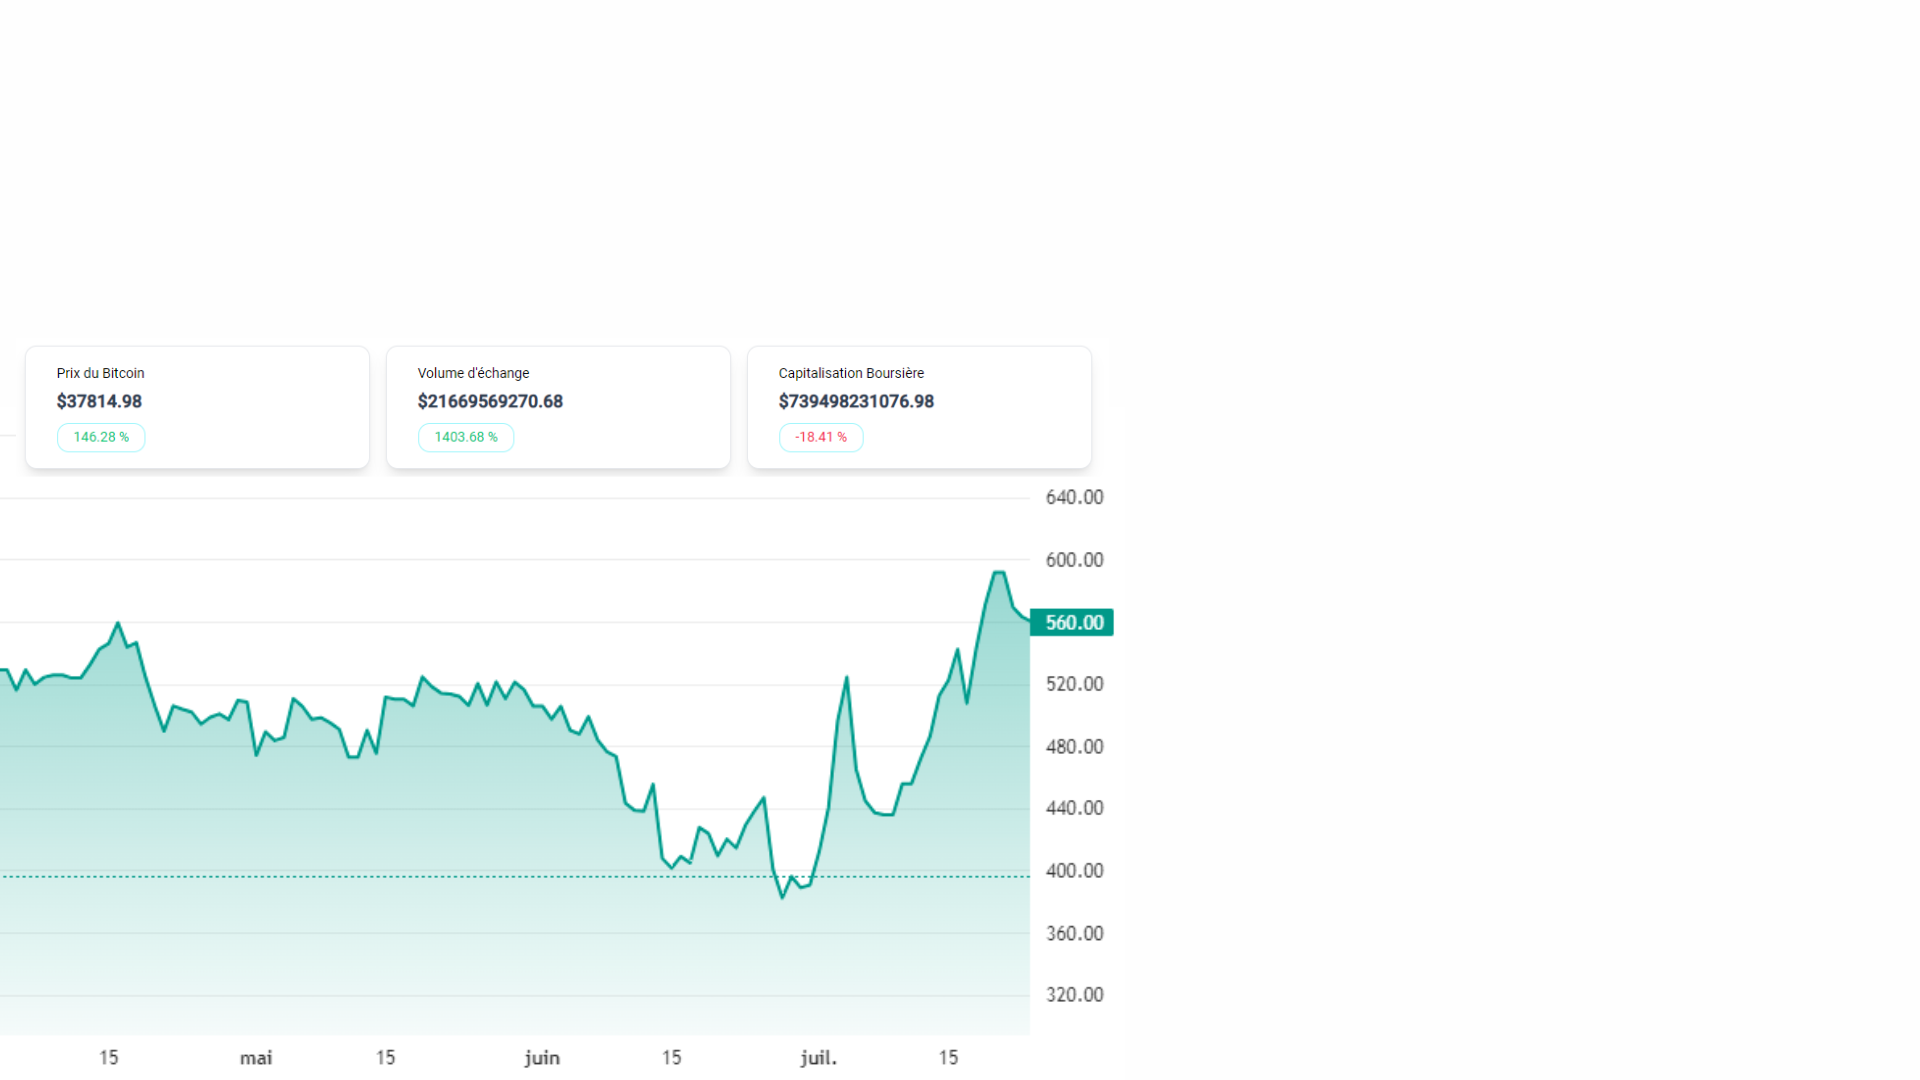
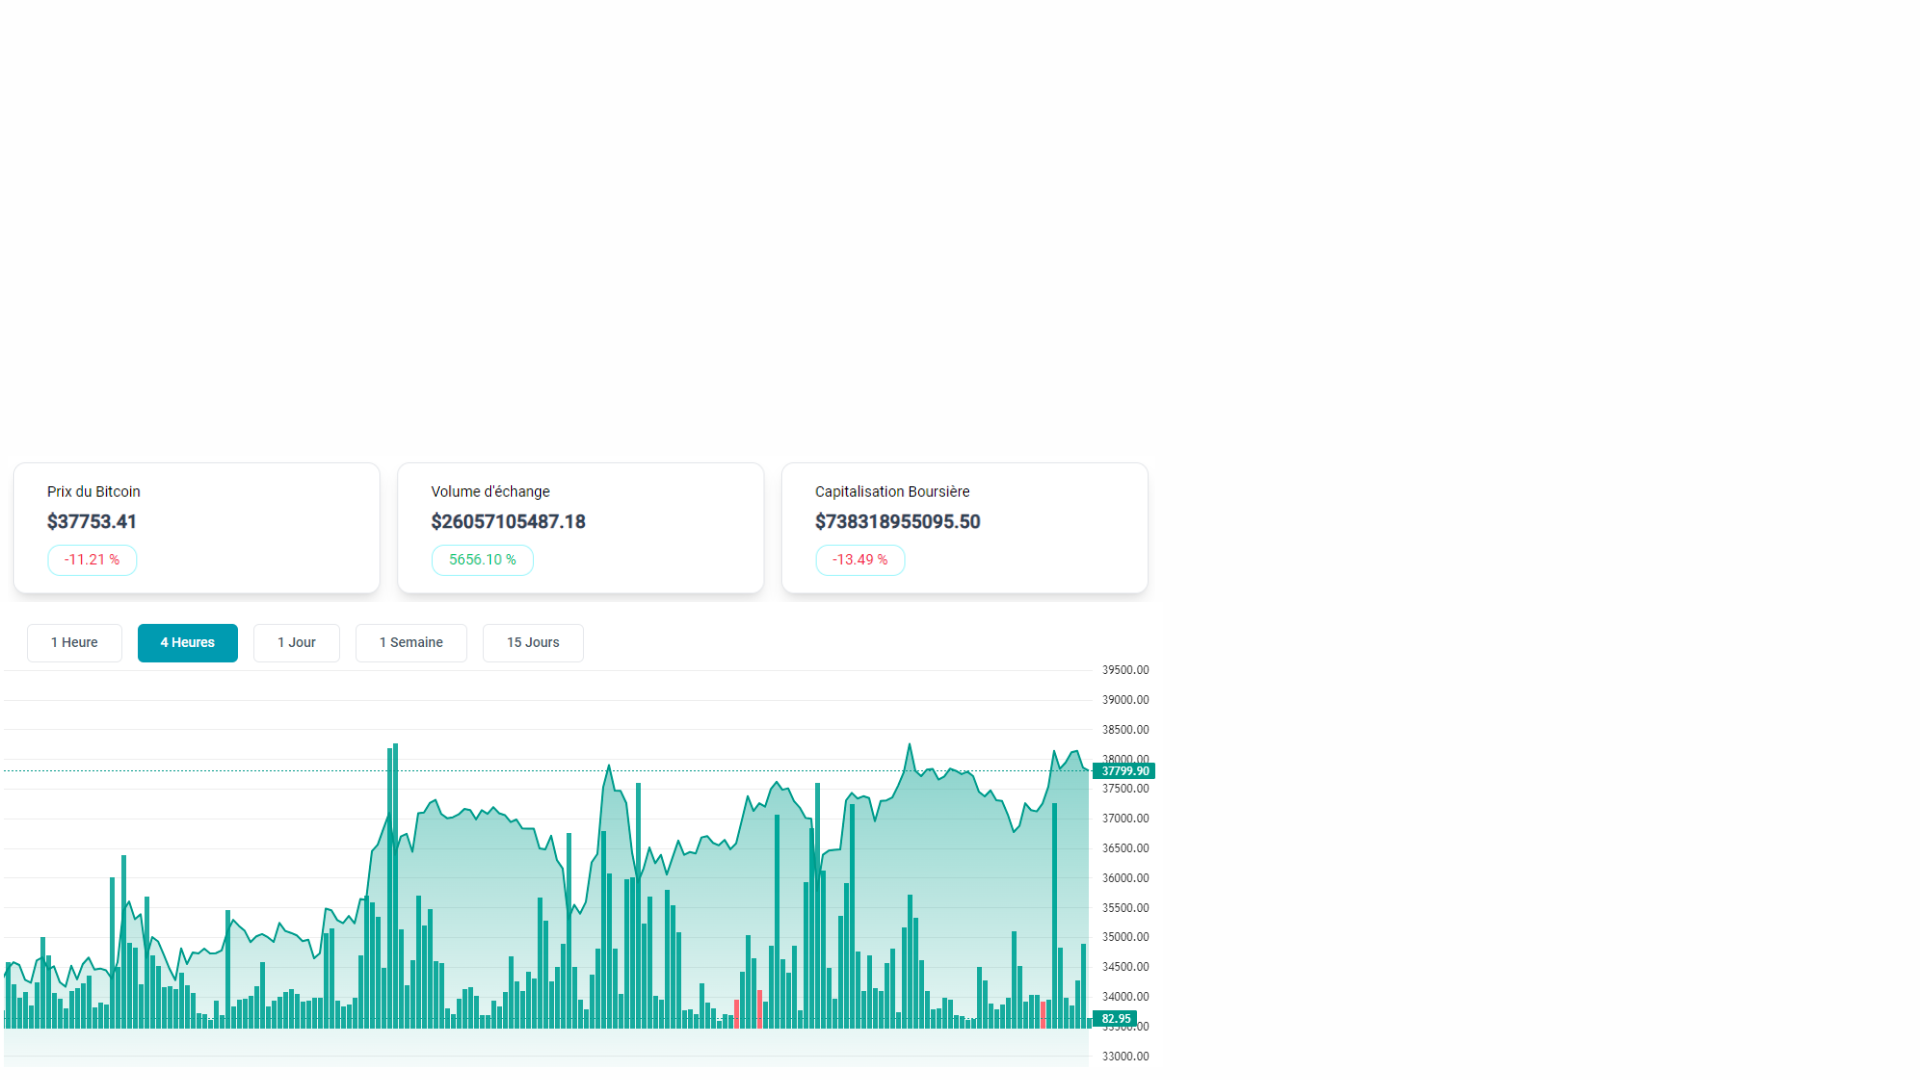
Add the posibility to switch time intervall in the overview

diff --git a/frontend/modules/bitcoin-overview/src/lib/bitcoin-overview/bit-chart/bit-chart.component.ts b/frontend/modules/bitcoin-overview/src/lib/bitcoin-overview/bit-chart/bit-chart.component.ts
@@ -2,7 +2,7 @@ import { AfterViewInit, Component, ElementRef, ViewChild } from '@angular/core';
 import { CommonModule } from '@angular/common';
 import { IChartApi, createChart } from 'lightweight-charts';
 import { SharedService } from '@bit-info-dash/shared';
-import moment from 'moment';
+import { KRANKEN_SYMBOLS, KrakenDataService, KrakenSymbol } from '../services/kraken-data.service';
 
 @Component({
   selector: 'bit-info-dash-bit-chart',
@@ -11,19 +11,33 @@ import moment from 'moment';
   templateUrl: './bit-chart.component.html',
 })
 export class BitChartComponent implements AfterViewInit {
-  constructor(private sharedService: SharedService) { }
-  ngAfterViewInit(): void { 
+  constructor(private sharedService: SharedService, private krakenService: KrakenDataService) { }
+
+  ngAfterViewInit(): void {
     this.myChart();
   }
   @ViewChild('chartContainer') chartContainer!: ElementRef;
-  chart!: IChartApi;  
+  chart!: IChartApi;
 
-  myChart(): void {  
-    var container = this.chartContainer.nativeElement; 
+  symbols: KrakenSymbol[] = KRANKEN_SYMBOLS;
+  symbol = this.symbols[0].symbol;
 
-    const chartContainerElement: HTMLElement = this.chartContainer.nativeElement;  
+  changeSymbol(_symbol: any) {
+    this.symbol = _symbol;
+    this.myChart();
+  }
+
+  getClassColor(_symbol: any) {
+    return _symbol === this.symbol ? 'text-white bg-secondary' : 'text-slate-600 border hover:text-primary-100 bg-white';
+  }
+
+  myChart(): void {
+    var container = this.chartContainer.nativeElement;
+
+    const chartContainerElement: HTMLElement = this.chartContainer.nativeElement;
+
     const chartContainerWidth: number = chartContainerElement.offsetWidth;
-
+    chartContainerElement.innerHTML = "";
     var width = chartContainerWidth;
     var height = 450;
 
@@ -38,8 +52,8 @@ export class BitChartComponent implements AfterViewInit {
       timeScale: {
         borderVisible: false,
       },
-      layout: { 
-        background: {color: '#ffffff' },
+      layout: {
+        background: { color: '#ffffff' },
         textColor: '#333',
       },
       grid: {
@@ -66,6 +80,7 @@ export class BitChartComponent implements AfterViewInit {
       lineWidth: 2,
     });
 
+
     var volumeSeries = chart.addHistogramSeries({
       color: '#26a69a',
       priceFormat: {
@@ -74,25 +89,27 @@ export class BitChartComponent implements AfterViewInit {
       priceScaleId: '',
     });
 
-    this.sharedService.getWithToken('/ohlcvt-1-ds', this.sharedService.getToken()).subscribe({
+    this.krakenService.getOHLCData(this.symbol).subscribe({
       next: (data) => {
-        const priceData = data.map((item: any) => ({
-          time: moment(item.timestamp).format("YYYY-MM-DD"),
-          value: item.close * 1000,
-        })); 
+        const processedData = this.krakenService.processKrakenApiResponse(data);
+        const priceData = processedData.map((item: any) => ({
+          // time: moment(item.timestamp).format("YYYY-MM-DD"),
+          time: item.time,
+          value: item.close * 1,
+        }));
 
-        const volumeData = data.map((item: any) => ({
-          time: moment(item.timestamp).format("YYYY-MM-DD"),
-          value: item.volume,
-          color: item.close < item.high ?  'rgba(0, 150, 136, 0.8)' : 'rgba(255,82,82, 0.8)',
-        })); 
+        const volumeData = processedData.map((item: any) => ({
+          time: item.time,
+          value: item.volume * 1,
+          color: item.close * 1 < item.high ? 'rgba(0, 150, 136, 0.8)' : 'rgba(255,82,82, 0.8)',
+        }));
 
         areaSeries.setData(priceData);
-       //volumeSeries.setData(volumeData);
+        volumeSeries.setData(volumeData);
       },
       error: (error) => { console.error('Error fetching OHLCVT data:', error) }
-    }) 
+    })
 
-     
+
   }
 }

diff --git a/frontend/modules/bitcoin-overview/src/lib/bitcoin-overview/bit-chart/bit-chart.component.html b/frontend/modules/bitcoin-overview/src/lib/bitcoin-overview/bit-chart/bit-chart.component.html
@@ -1,31 +1,20 @@
 <div class="bg-white shadow">
-    <div class="mx-auto max-w-7xl px-2 sm:px-2 lg:px-2">
-        <div class="flex"> 
+    <div class="mx-auto mb-10 max-w-7xl px-2 sm:px-2 lg:px-2">
+        <div class="flex">
             <form class="flex-auto px-6 pt-6">
                 <div class="flex mb-2 flex-wrap">
-                    <h1 class="flex-auto text-lg font-semibold text-slate-600">
+                    <h1 class="flex-auto text-lg py-8 font-semibold text-slate-600">
                         Evolution du prix du bitcoin et Volume d'échange
-                    </h1>  
-                </div> 
+                    </h1>
+                </div>
                 <div class="flex space-x-4 text-sm font-medium">
                     <div class="flex-auto flex space-x-4">
-                        <button class="h-10 px-6 text-sm font-medium rounded-md bg-primary-100 text-white" type="submit">
-                            1 Jour
+                        <button *ngFor="let symbol of symbols" [ngClass]="getClassColor(symbol.symbol)" type="button"
+                            (click)="changeSymbol(symbol.symbol)" class="h-10 px-6 text-sm font-medium rounded-md ">
+                            {{ symbol.label }}
                         </button>
-                        <button class="h-10 px-6  rounded-md border border-slate-200 text-slate-900"
-                            type="button">
-                            1 Semaine
-                        </button>
-                        <button class="h-10 px-6  rounded-md border border-slate-200 text-slate-900"
-                            type="button">
-                            1 Mois
-                        </button>
-                        <button class="h-10 px-6  rounded-md border border-slate-200 text-slate-900"
-                            type="button">
-                            1 Année
-                        </button>
-                    </div> 
-                </div> 
+                    </div>
+                </div>
             </form>
         </div>
         <div #chartContainer></div>

diff --git a/frontend/modules/shared/src/lib/shared/shared.service.ts b/frontend/modules/shared/src/lib/shared/shared.service.ts
@@ -34,8 +34,7 @@ export class SharedService {
             'Authorization': `Bearer ${token}`
         });
         return this.httpClient.get(url, { headers });
-    }
-
+    } 
 
     public createElement(endpoint: string, data: any): Observable<any> {
         const url = `${API_URL}${endpoint}`;
